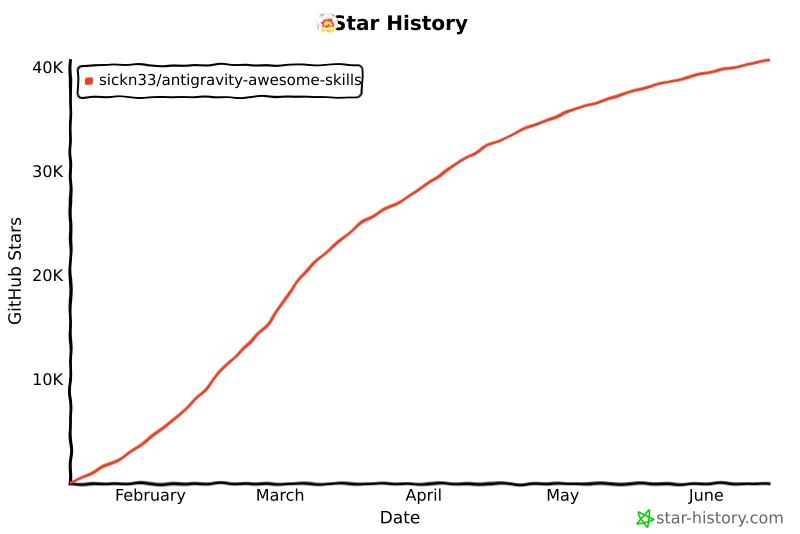
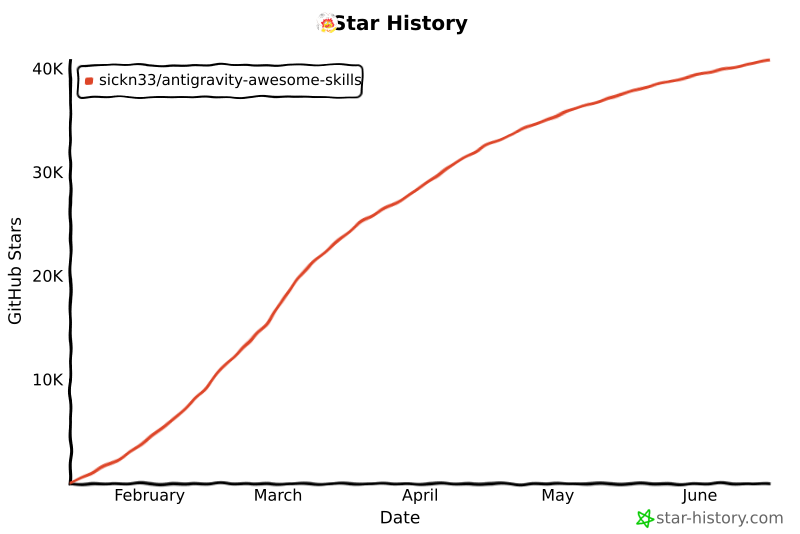
chore: update star history chart

diff --git a/README.md b/README.md
@@ -478,14 +478,14 @@ We officially thank the following contributors for their help in making this rep
 ## Star History
 
 <a href="https://www.star-history.com/#sickn33/antigravity-awesome-skills&type=date&legend=top-left">
- <img alt="Star History Chart" src="https://api.star-history.com/svg?repos=sickn33/antigravity-awesome-skills&type=date&legend=top-left&cache_bust=202606151139" />
+ <img alt="Star History Chart" src="https://api.star-history.com/svg?repos=sickn33/antigravity-awesome-skills&type=date&legend=top-left&cache_bust=202606161048" />
 </a>
 
 <a href="https://www.star-history.com/sickn33/antigravity-awesome-skills">
  <picture>
-   <source media="(prefers-color-scheme: dark)" srcset="https://api.star-history.com/chart?repos=sickn33/antigravity-awesome-skills&style=landscape1&theme=dark&cache_bust=202606151139" />
-   <source media="(prefers-color-scheme: light)" srcset="https://api.star-history.com/chart?repos=sickn33/antigravity-awesome-skills&style=landscape1&cache_bust=202606151139" />
-   <img alt="Star History Chart" src="https://api.star-history.com/chart?repos=sickn33/antigravity-awesome-skills&style=landscape1&cache_bust=202606151139" />
+   <source media="(prefers-color-scheme: dark)" srcset="https://api.star-history.com/chart?repos=sickn33/antigravity-awesome-skills&style=landscape1&theme=dark&cache_bust=202606161048" />
+   <source media="(prefers-color-scheme: light)" srcset="https://api.star-history.com/chart?repos=sickn33/antigravity-awesome-skills&style=landscape1&cache_bust=202606161048" />
+   <img alt="Star History Chart" src="https://api.star-history.com/chart?repos=sickn33/antigravity-awesome-skills&style=landscape1&cache_bust=202606161048" />
  </picture>
 </a>
 
